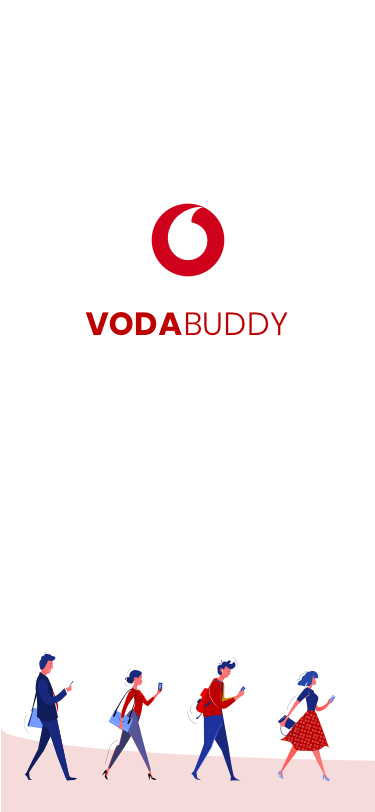
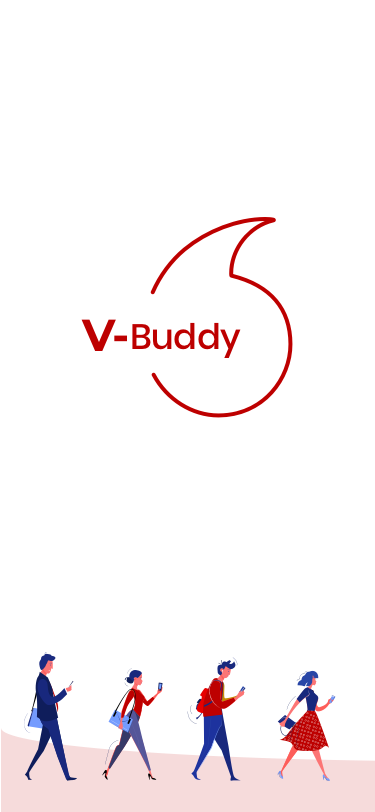
Fix bugs 31-3-2020

Changed region(s): [[0.2053, 0.2463, 0.792, 0.4926], [0.4693, 0.4926, 0.704, 0.5234], [0.4107, 0.4618, 0.4693, 0.4926]]

diff --git a/App/component/ThankYou.js b/App/component/ThankYou.js
@@ -4,7 +4,8 @@ import {
     StyleSheet,
     View,
     Dimensions,
-    Text
+    Text,
+    TouchableOpacity
 } from 'react-native';
 import { Card } from 'react-native-elements'
 
@@ -14,6 +15,7 @@ export default class Survey extends Component {
     };
 
     render() {
+        const { navigate } = this.props.navigation;
         return (
             <View style={{ justifyContent: 'center', alignItems: 'center', flex: 1 }}>
 
@@ -22,6 +24,15 @@ export default class Survey extends Component {
                         Hope You Enjoyed the Journey, Welcome on board.
                     </Text>
                 </Card>
+                <View style={styles.NextButtonView}>
+
+<TouchableOpacity style={styles.button} onPress={() => navigate("Menu", {})} >
+    <Text style={styles.ButtonText}>
+        NEXT
+        </Text>
+</TouchableOpacity>
+</View>
+
             </View >
 
         );
@@ -56,6 +67,8 @@ const styles = StyleSheet.create({
     },
     card: {
         width: '90%',
+        marginTop: DEVICE_HEIGHT * 0.3,
+
         //backgroundColor:'yellow'
     },
     titleStyle: {
@@ -69,24 +82,17 @@ const styles = StyleSheet.create({
         fontFamily: "VodafoneRg",
         // fontWeight: "300"
     },
-
-
-    button: { // button design
-        width: DEVICE_WIDTH * (130 / DEVICE_WIDTH),
-        alignItems: 'center',
-        justifyContent: 'center',
-        backgroundColor: 'white',
-        borderColor: 'red',
-        borderRadius: 10,
-        borderWidth: 1,
-        padding: 10,
+    NextButtonView: { //wrapper for button 
+        // flexDirection: 'row',
+        justifyContent: 'flex-end',
+        alignItems: 'flex-end',
+        flex: 1,
+        marginBottom: DEVICE_HEIGHT * 0.05,
+        marginLeft: DEVICE_WIDTH * 0.68
     },
-
-    ButtonView: { //wrapper for button 
-
-        marginTop: DEVICE_HEIGHT * (12 / DEVICE_HEIGHT),
-        justifyContent: 'center',
+    button: {
         alignItems: 'center',
+        justifyContent: 'center'
     },
     ButtonText: { // text inside button
         color: 'red',

diff --git a/App/component/HealthAndSafety3.js b/App/component/HealthAndSafety3.js
@@ -78,6 +78,8 @@ export default class HealthandSafety3 extends Component {
     // console.log('DEVICE_WIDTH *', DEVICE_WIDTH * 0.962);
     console.log('DEVICE_HEIGHT First *', DEVICE_HEIGHT * 0.55);
     console.log('DEVICE_HEIGHT Second*', DEVICE_HEIGHT * 0.65);
+console.log('seatbelt device height first ', DEVICE_HEIGHT * 0.65);
+console.log('seatbelt device height second ', DEVICE_HEIGHT * 0.85);
 
     return (
       <View style={styles.mainContainer}>
@@ -91,7 +93,7 @@ export default class HealthandSafety3 extends Component {
         <View style={styles.imagesContainer}>
           {/* images here  */}
           <Draggable style={styles.draggable} imageurl={require(electric)} moveYfirst={DEVICE_HEIGHT * 0.55} moveYsecond={DEVICE_HEIGHT * 0.62} moveXfirst={DEVICE_WIDTH * 0.07} moveXsecond={DEVICE_WIDTH * 0.24} answerId={1} qtrue={q1true} />
-          <Draggable style={styles.draggable} imageurl={require(seatbelt)} moveYfirst={500} moveYsecond={680} moveXfirst={DEVICE_WIDTH * 0.07} moveXsecond={DEVICE_WIDTH * 0.24} answerId={2} qtrue={q2true} />
+          <Draggable style={styles.draggable} imageurl={require(seatbelt)} moveYfirst={DEVICE_HEIGHT * 0.65} moveYsecond={DEVICE_HEIGHT * 0.83} moveXfirst={DEVICE_WIDTH * 0.07} moveXsecond={DEVICE_WIDTH * 0.24} answerId={2} qtrue={q2true} />
           <Draggable style={styles.draggable} imageurl={require(workingatheight)} moveYfirst={DEVICE_HEIGHT * 0.406} moveYsecond={DEVICE_HEIGHT * 0.50} moveXfirst={DEVICE_WIDTH * 0.07} moveXsecond={DEVICE_WIDTH * 0.24} answerId={3} qtrue={q3true} />
         </View>
         {/* 470 530 */}

diff --git a/App/component/Organisation0.js b/App/component/Organisation0.js
@@ -74,7 +74,7 @@ export default class Organisation0 extends Component {
                             </Text>
                         </View>
                         {/* ------------- */}
-                        <View style={styles.boxItem}>
+                        {/* <View style={styles.boxItem}>
                             <Image source={Emad} />
                             <Text style={styles.upperText}>
                                 Emad {"\n"} ElAzhary
@@ -82,7 +82,7 @@ export default class Organisation0 extends Component {
                             <Text style={styles.lowerText}>
                                 Strategy Director
                             </Text>
-                        </View>
+                        </View> */}
                         {/* ------------- */}
                         <View style={styles.boxItem}>
                             <Image source={Osama} />

diff --git a/App/screens/login-screen.js b/App/screens/login-screen.js
@@ -46,8 +46,8 @@ class LoginContainer extends Component {
     console.log("Is loggedin " + props.isLoggedIn);
     if (props.isLoggedIn) {
 
-      props.navigation.navigate(props.lastScreen || "walkThrough");
-      // props.navigation.navigate("HealthAndSafety3");
+      // props.navigation.navigate(props.lastScreen || "walkThrough");
+      props.navigation.navigate("HealthAndSafety3");
 
       return state;
     }
@@ -56,7 +56,7 @@ class LoginContainer extends Component {
 
   render() {
 
-    // this.props.logout()
+   //this.props.logout()
     // this.props.resetMsg()
     /// --> TO LOGOUT AND CLEAR PRESIST STATE
     return (

diff --git a/App/component/newLogin.js b/App/component/newLogin.js
@@ -65,7 +65,7 @@ export class Login extends Component {
 
                 <View style={styles.welcomTextView}>
                     <Text style={styles.HelloText}>Hello!</Text>
-                    <Text style={styles.WelcomeText}>Welcome to VodaBuddy, Lets start your journey as a Vodafoner</Text>
+                    <Text style={styles.WelcomeText}>Welcome to V-Buddy, Lets start your journey as a Vodafoner</Text>
 
                 </View>
                 <View style={styles.userNameTextInputView}>

diff --git a/App/proxy/services/survey-service.js b/App/proxy/services/survey-service.js
@@ -21,6 +21,5 @@ export class SurveyService {
             headers: { "content-Type": "application/json" },
             body: JSON.stringify(data)
         });
-
     }
 }
